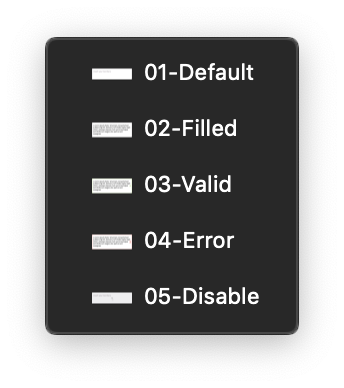
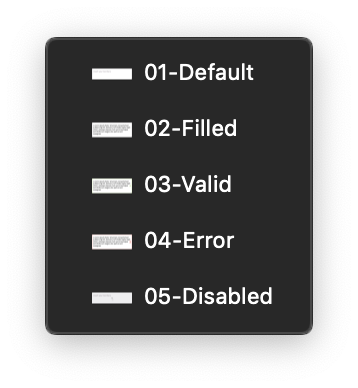
feat(pattern/textarea): improve doc

diff --git a/src/pages/Components/TextArea/design.md b/src/pages/Components/TextArea/design.md
@@ -9,11 +9,11 @@ The sketch file includes other form elements. Here is the section you'll find th
 
 ![sketch-menu](textarea--sketch-menu.png)
 
-### **👾 For developers :**
+### 👾 For developers :
 
 This part is a specific section for developers, **for a better accessibility**. There are all states of forms components.
 
-### **🛠 ToolKit :**
+### 🛠 ToolKit :
 
 The ToolKit section bring together the **dedicated symbols used for building the final symbols**, and you can find them in the symbol overrides.
 <br>
@@ -24,7 +24,7 @@ The ToolKit section bring together the **dedicated symbols used for building the
   </hintitem>
 </hint>
 
-### **TextArea :**
+### TextAreas :
 
 This is the section where you will find the ready to use symbols for your projects. You can find the different states of the text area.
 
@@ -34,4 +34,4 @@ This is the section where you will find the ready to use symbols for your projec
 - Filled
 - Valid
 - Error
-- Disable
+- Disabled

diff --git a/src/pages/Components/TextArea/index.md b/src/pages/Components/TextArea/index.md
@@ -27,9 +27,3 @@ Text areas are used for content **with multiple sentence like** :
 <hintitem>
   Adapt the textarea width and height depending on the requested content.
 </hintitem>
-
-##
-
-###
-
-###
